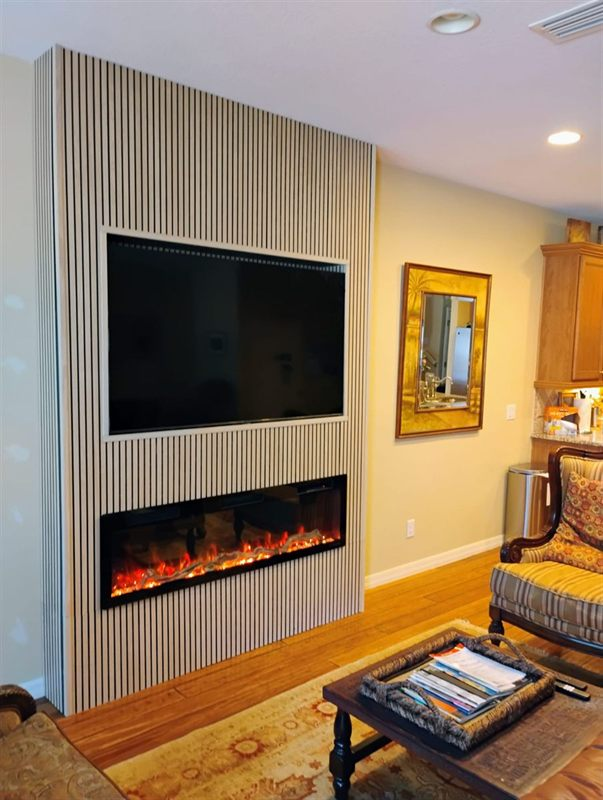
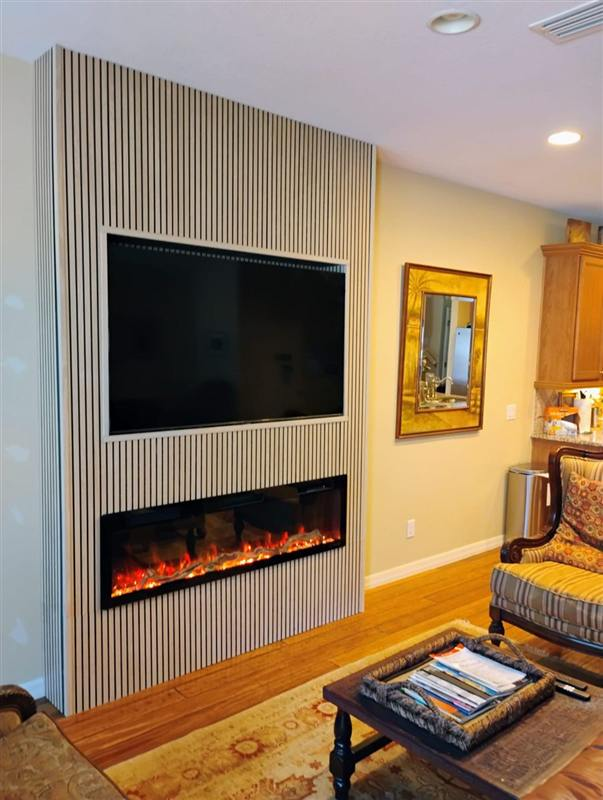
Add hero photo, homepage thumbnails, lightbox swipe, and social preview tags
- Homepage before/after tiles now load 800px thumbnails instead of
  full lightbox-size images (~4.3 MB -> ~1.5 MB); lightbox still
  opens the full-resolution photos
- Hero logo art replaced with a landscaping photo (banner above the
  headline on mobile, equal-width 3:2 card on desktop)
- Lightbox supports touch swipe to move between photos
- Open Graph / Twitter card tags on both pages with a 1200x630
  preview image so shared links show a photo

diff --git a/index.html b/index.html
@@ -6,6 +6,14 @@
   <title>Scott's Work of Arts | Property Maintenance &amp; Landscaping in Ocoee, FL</title>
   <meta name="description" content="Scott's Work of Arts - landscaping, painting, pressure washing, handyman service and more in Ocoee, FL and West Orange County. Call (407) 558-1006 for a free quote.">
   <link rel="canonical" href="https://scottsworkofarts.com/">
+  <meta property="og:type" content="website">
+  <meta property="og:url" content="https://scottsworkofarts.com/">
+  <meta property="og:title" content="Scott's Work of Arts | Property Maintenance &amp; Landscaping in Ocoee, FL">
+  <meta property="og:description" content="Landscaping, painting, pressure washing, handyman service and more in Ocoee, FL and West Orange County. Call (407) 558-1006 for a free quote.">
+  <meta property="og:image" content="https://scottsworkofarts.com/img/og-cover.jpg">
+  <meta property="og:image:width" content="1200">
+  <meta property="og:image:height" content="630">
+  <meta name="twitter:card" content="summary_large_image">
   <link rel="preconnect" href="https://fonts.googleapis.com">
   <link rel="preconnect" href="https://fonts.gstatic.com" crossorigin>
   <link href="https://fonts.googleapis.com/css2?family=Poppins:wght@400;500;600;700;800&display=swap" rel="stylesheet">
@@ -107,8 +115,8 @@
           <li>Based in Ocoee, serving West Orange County</li>
         </ul>
       </div>
-      <div class="hero-art" aria-hidden="true">
-        <svg viewBox="0 0 64 64" class="hero-logo"><use href="#logo-mark"></use></svg>
+      <div class="hero-art">
+        <img class="hero-photo" src="img/hero.jpg" fetchpriority="high" alt="Freshly landscaped front yard with a manicured lawn, trimmed hedges and red mulch beds">
       </div>
     </div>
     <div class="hero-wave" aria-hidden="true">
@@ -187,50 +195,50 @@
       <div class="ba-grid">
         <figure class="ba-card">
           <div class="ba-pair">
-            <span class="ba-img" role="button" tabindex="0" data-full="img/gallery/ba-accent-before.jpg" data-cap="Living room wall framed out before the slat feature wall"><img loading="lazy" src="img/gallery/ba-accent-before.jpg" alt="Living room wall framed out in drywall before the slat feature wall was built"><span class="ba-tag">Before</span></span>
-            <span class="ba-img" role="button" tabindex="0" data-full="img/gallery/ba-accent-after.jpg" data-cap="Finished wood slat feature wall with a mounted TV and electric fireplace"><img loading="lazy" src="img/gallery/ba-accent-after.jpg" alt="Finished wood slat feature wall with a mounted TV and built-in electric fireplace"><span class="ba-tag ba-after">After</span></span>
+            <span class="ba-img" role="button" tabindex="0" data-full="img/gallery/ba-accent-before.jpg" data-cap="Living room wall framed out before the slat feature wall"><img loading="lazy" src="img/gallery/thumb/ba-accent-before.jpg" alt="Living room wall framed out in drywall before the slat feature wall was built"><span class="ba-tag">Before</span></span>
+            <span class="ba-img" role="button" tabindex="0" data-full="img/gallery/ba-accent-after.jpg" data-cap="Finished wood slat feature wall with a mounted TV and electric fireplace"><img loading="lazy" src="img/gallery/thumb/ba-accent-after.jpg" alt="Finished wood slat feature wall with a mounted TV and built-in electric fireplace"><span class="ba-tag ba-after">After</span></span>
           </div>
         </figure>
         <figure class="ba-card">
           <div class="ba-pair">
-            <span class="ba-img" role="button" tabindex="0" data-full="img/gallery/ba-deck-before.jpg" data-cap="Paver patio covered in green moss before cleaning"><img loading="lazy" src="img/gallery/ba-deck-before.jpg" alt="Backyard paver patio stained green with moss before cleaning"><span class="ba-tag">Before</span></span>
-            <span class="ba-img" role="button" tabindex="0" data-full="img/gallery/ba-deck-after.jpg" data-cap="The same patio pressure-washed clean and ready to use"><img loading="lazy" src="img/gallery/ba-deck-after.jpg" alt="The same paver patio pressure-washed clean, with patio furniture"><span class="ba-tag ba-after">After</span></span>
+            <span class="ba-img" role="button" tabindex="0" data-full="img/gallery/ba-deck-before.jpg" data-cap="Paver patio covered in green moss before cleaning"><img loading="lazy" src="img/gallery/thumb/ba-deck-before.jpg" alt="Backyard paver patio stained green with moss before cleaning"><span class="ba-tag">Before</span></span>
+            <span class="ba-img" role="button" tabindex="0" data-full="img/gallery/ba-deck-after.jpg" data-cap="The same patio pressure-washed clean and ready to use"><img loading="lazy" src="img/gallery/thumb/ba-deck-after.jpg" alt="The same paver patio pressure-washed clean, with patio furniture"><span class="ba-tag ba-after">After</span></span>
           </div>
         </figure>
         <figure class="ba-card">
           <div class="ba-pair">
-            <span class="ba-img" role="button" tabindex="0" data-full="img/gallery/ba-house-before.jpg" data-cap="Cream stucco house before repainting"><img loading="lazy" src="img/gallery/ba-house-before.jpg" alt="Cream-colored stucco house before repainting"><span class="ba-tag">Before</span></span>
-            <span class="ba-img" role="button" tabindex="0" data-full="img/gallery/ba-house-after.jpg" data-cap="The same house repainted bright yellow with fresh landscaping"><img loading="lazy" src="img/gallery/ba-house-after.jpg" alt="The same house repainted bright yellow with fresh landscaping"><span class="ba-tag ba-after">After</span></span>
+            <span class="ba-img" role="button" tabindex="0" data-full="img/gallery/ba-house-before.jpg" data-cap="Cream stucco house before repainting"><img loading="lazy" src="img/gallery/thumb/ba-house-before.jpg" alt="Cream-colored stucco house before repainting"><span class="ba-tag">Before</span></span>
+            <span class="ba-img" role="button" tabindex="0" data-full="img/gallery/ba-house-after.jpg" data-cap="The same house repainted bright yellow with fresh landscaping"><img loading="lazy" src="img/gallery/thumb/ba-house-after.jpg" alt="The same house repainted bright yellow with fresh landscaping"><span class="ba-tag ba-after">After</span></span>
           </div>
         </figure>
         <figure class="ba-card">
           <div class="ba-pair">
-            <span class="ba-img" role="button" tabindex="0" data-full="img/gallery/ba-garden-before.jpg" data-cap="Sparse garden bed before landscaping"><img loading="lazy" src="img/gallery/ba-garden-before.jpg" alt="Sparse garden bed along a paver path before landscaping"><span class="ba-tag">Before</span></span>
-            <span class="ba-img" role="button" tabindex="0" data-full="img/gallery/ba-garden-after.jpg" data-cap="The same bed filled with fresh plants and mulch"><img loading="lazy" src="img/gallery/ba-garden-after.jpg" alt="The same bed filled with fresh plants and mulch"><span class="ba-tag ba-after">After</span></span>
+            <span class="ba-img" role="button" tabindex="0" data-full="img/gallery/ba-garden-before.jpg" data-cap="Sparse garden bed before landscaping"><img loading="lazy" src="img/gallery/thumb/ba-garden-before.jpg" alt="Sparse garden bed along a paver path before landscaping"><span class="ba-tag">Before</span></span>
+            <span class="ba-img" role="button" tabindex="0" data-full="img/gallery/ba-garden-after.jpg" data-cap="The same bed filled with fresh plants and mulch"><img loading="lazy" src="img/gallery/thumb/ba-garden-after.jpg" alt="The same bed filled with fresh plants and mulch"><span class="ba-tag ba-after">After</span></span>
           </div>
         </figure>
         <figure class="ba-card">
           <div class="ba-pair">
-            <span class="ba-img" role="button" tabindex="0" data-full="img/gallery/ba-pool-before.jpg" data-cap="Pool deck stained dark with mildew"><img loading="lazy" src="img/gallery/ba-pool-before.jpg" alt="Pool deck stained dark with mildew before pressure washing"><span class="ba-tag">Before</span></span>
-            <span class="ba-img" role="button" tabindex="0" data-full="img/gallery/ba-pool-after.jpg" data-cap="The same pool deck pressure-washed clean"><img loading="lazy" src="img/gallery/ba-pool-after.jpg" alt="The same pool deck pressure-washed clean"><span class="ba-tag ba-after">After</span></span>
+            <span class="ba-img" role="button" tabindex="0" data-full="img/gallery/ba-pool-before.jpg" data-cap="Pool deck stained dark with mildew"><img loading="lazy" src="img/gallery/thumb/ba-pool-before.jpg" alt="Pool deck stained dark with mildew before pressure washing"><span class="ba-tag">Before</span></span>
+            <span class="ba-img" role="button" tabindex="0" data-full="img/gallery/ba-pool-after.jpg" data-cap="The same pool deck pressure-washed clean"><img loading="lazy" src="img/gallery/thumb/ba-pool-after.jpg" alt="The same pool deck pressure-washed clean"><span class="ba-tag ba-after">After</span></span>
           </div>
         </figure>
         <figure class="ba-card">
           <div class="ba-pair">
-            <span class="ba-img" role="button" tabindex="0" data-full="img/gallery/ba-garden3-before.jpg" data-cap="Overgrown, weedy beds before landscaping"><img loading="lazy" src="img/gallery/ba-garden3-before.jpg" alt="Overgrown, weedy island bed in front of an open garage"><span class="ba-tag">Before</span></span>
-            <span class="ba-img" role="button" tabindex="0" data-full="img/gallery/ba-garden3-after.jpg" data-cap="Fresh beds, mulch and a new palm after landscaping"><img loading="lazy" src="img/gallery/ba-garden3-after.jpg" alt="The same island bed with fresh plants, mulch and a new palm"><span class="ba-tag ba-after">After</span></span>
+            <span class="ba-img" role="button" tabindex="0" data-full="img/gallery/ba-garden3-before.jpg" data-cap="Overgrown, weedy beds before landscaping"><img loading="lazy" src="img/gallery/thumb/ba-garden3-before.jpg" alt="Overgrown, weedy island bed in front of an open garage"><span class="ba-tag">Before</span></span>
+            <span class="ba-img" role="button" tabindex="0" data-full="img/gallery/ba-garden3-after.jpg" data-cap="Fresh beds, mulch and a new palm after landscaping"><img loading="lazy" src="img/gallery/thumb/ba-garden3-after.jpg" alt="The same island bed with fresh plants, mulch and a new palm"><span class="ba-tag ba-after">After</span></span>
           </div>
         </figure>
         <figure class="ba-card">
           <div class="ba-pair">
-            <span class="ba-img" role="button" tabindex="0" data-full="img/gallery/ba-garage-before.jpg" data-cap="Garage with a bare, stained concrete floor"><img loading="lazy" src="img/gallery/ba-garage-before.jpg" alt="Garage with a bare, stained concrete floor before coating"><span class="ba-tag">Before</span></span>
-            <span class="ba-img" role="button" tabindex="0" data-full="img/gallery/ba-garage-after.jpg" data-cap="The same garage with a smooth gray epoxy floor"><img loading="lazy" src="img/gallery/ba-garage-after.jpg" alt="The same garage with a smooth gray epoxy floor"><span class="ba-tag ba-after">After</span></span>
+            <span class="ba-img" role="button" tabindex="0" data-full="img/gallery/ba-garage-before.jpg" data-cap="Garage with a bare, stained concrete floor"><img loading="lazy" src="img/gallery/thumb/ba-garage-before.jpg" alt="Garage with a bare, stained concrete floor before coating"><span class="ba-tag">Before</span></span>
+            <span class="ba-img" role="button" tabindex="0" data-full="img/gallery/ba-garage-after.jpg" data-cap="The same garage with a smooth gray epoxy floor"><img loading="lazy" src="img/gallery/thumb/ba-garage-after.jpg" alt="The same garage with a smooth gray epoxy floor"><span class="ba-tag ba-after">After</span></span>
           </div>
         </figure>
         <figure class="ba-card">
           <div class="ba-pair">
-            <span class="ba-img" role="button" tabindex="0" data-full="img/gallery/ba-roof-before.jpg" data-cap="Roof gutter packed with leaves before cleaning"><img loading="lazy" src="img/gallery/ba-roof-before.jpg" alt="Roof gutter packed with leaves above a pool enclosure"><span class="ba-tag">Before</span></span>
-            <span class="ba-img" role="button" tabindex="0" data-full="img/gallery/ba-roof-after.jpg" data-cap="The same gutter cleared out along the roofline"><img loading="lazy" src="img/gallery/ba-roof-after.jpg" alt="The same gutter cleared out along the roofline"><span class="ba-tag ba-after">After</span></span>
+            <span class="ba-img" role="button" tabindex="0" data-full="img/gallery/ba-roof-before.jpg" data-cap="Roof gutter packed with leaves before cleaning"><img loading="lazy" src="img/gallery/thumb/ba-roof-before.jpg" alt="Roof gutter packed with leaves above a pool enclosure"><span class="ba-tag">Before</span></span>
+            <span class="ba-img" role="button" tabindex="0" data-full="img/gallery/ba-roof-after.jpg" data-cap="The same gutter cleared out along the roofline"><img loading="lazy" src="img/gallery/thumb/ba-roof-after.jpg" alt="The same gutter cleared out along the roofline"><span class="ba-tag ba-after">After</span></span>
           </div>
         </figure>
       </div>

diff --git a/our-work.html b/our-work.html
@@ -6,6 +6,14 @@
   <title>Our Work | Scott's Work of Arts | Ocoee, FL</title>
   <meta name="description" content="A gallery of recent projects by Scott's Work of Arts in Ocoee, FL and West Orange County: feature walls, painting, landscaping, pressure washing, gutter cleaning and more.">
   <link rel="canonical" href="https://scottsworkofarts.com/our-work">
+  <meta property="og:type" content="website">
+  <meta property="og:url" content="https://scottsworkofarts.com/our-work">
+  <meta property="og:title" content="Our Work | Scott's Work of Arts | Ocoee, FL">
+  <meta property="og:description" content="A gallery of recent projects by Scott's Work of Arts in Ocoee, FL and West Orange County: feature walls, painting, landscaping, pressure washing, gutter cleaning and more.">
+  <meta property="og:image" content="https://scottsworkofarts.com/img/og-cover.jpg">
+  <meta property="og:image:width" content="1200">
+  <meta property="og:image:height" content="630">
+  <meta name="twitter:card" content="summary_large_image">
   <link rel="preconnect" href="https://fonts.googleapis.com">
   <link rel="preconnect" href="https://fonts.gstatic.com" crossorigin>
   <link href="https://fonts.googleapis.com/css2?family=Poppins:wght@400;500;600;700;800&display=swap" rel="stylesheet">

diff --git a/css/style.css b/css/style.css
@@ -218,9 +218,18 @@ h1, h2, h3 { line-height: 1.2; }
 
 .hero-art { display: flex; justify-content: center; }
 
-.hero-logo {
-  width: min(340px, 80%);
-  filter: drop-shadow(0 12px 28px rgba(30, 122, 79, 0.25));
+.hero-photo {
+  width: 100%;
+  aspect-ratio: 4 / 3;
+  object-fit: cover;
+  border-radius: var(--radius);
+  box-shadow: 0 12px 28px rgba(30, 122, 79, 0.25);
+}
+
+/* On wide screens, give the photo an equal share of the hero */
+@media (min-width: 861px) {
+  .hero-inner { grid-template-columns: 1fr 1fr; }
+  .hero-photo { aspect-ratio: 3 / 2; }
 }
 
 .hero-wave {
@@ -743,7 +752,7 @@ h1, h2, h3 { line-height: 1.2; }
   .hero-lead { margin-inline: auto; }
   .hero-actions, .hero-points { justify-content: center; }
   .hero-art { order: -1; }
-  .hero-logo { width: min(220px, 60%); }
+  .hero-photo { aspect-ratio: 16 / 9; }
   .why-inner { grid-template-columns: 1fr; }
 
   .nav-toggle { display: flex; }

diff --git a/js/main.js b/js/main.js
@@ -145,4 +145,22 @@ if (items.length && lightbox) {
     else if (e.key === 'ArrowRight') render(current + 1);
     else if (e.key === 'ArrowLeft') render(current - 1);
   });
+
+  // Swipe left/right to change photos on touch screens
+  let touchX = null;
+  let touchY = null;
+  lightbox.addEventListener('touchstart', (e) => {
+    touchX = e.touches[0].clientX;
+    touchY = e.touches[0].clientY;
+  }, { passive: true });
+  lightbox.addEventListener('touchend', (e) => {
+    if (touchX === null) return;
+    const dx = e.changedTouches[0].clientX - touchX;
+    const dy = e.changedTouches[0].clientY - touchY;
+    touchX = null;
+    touchY = null;
+    if (Math.abs(dx) > 48 && Math.abs(dx) > Math.abs(dy)) {
+      render(dx < 0 ? current + 1 : current - 1);
+    }
+  }, { passive: true });
 }
